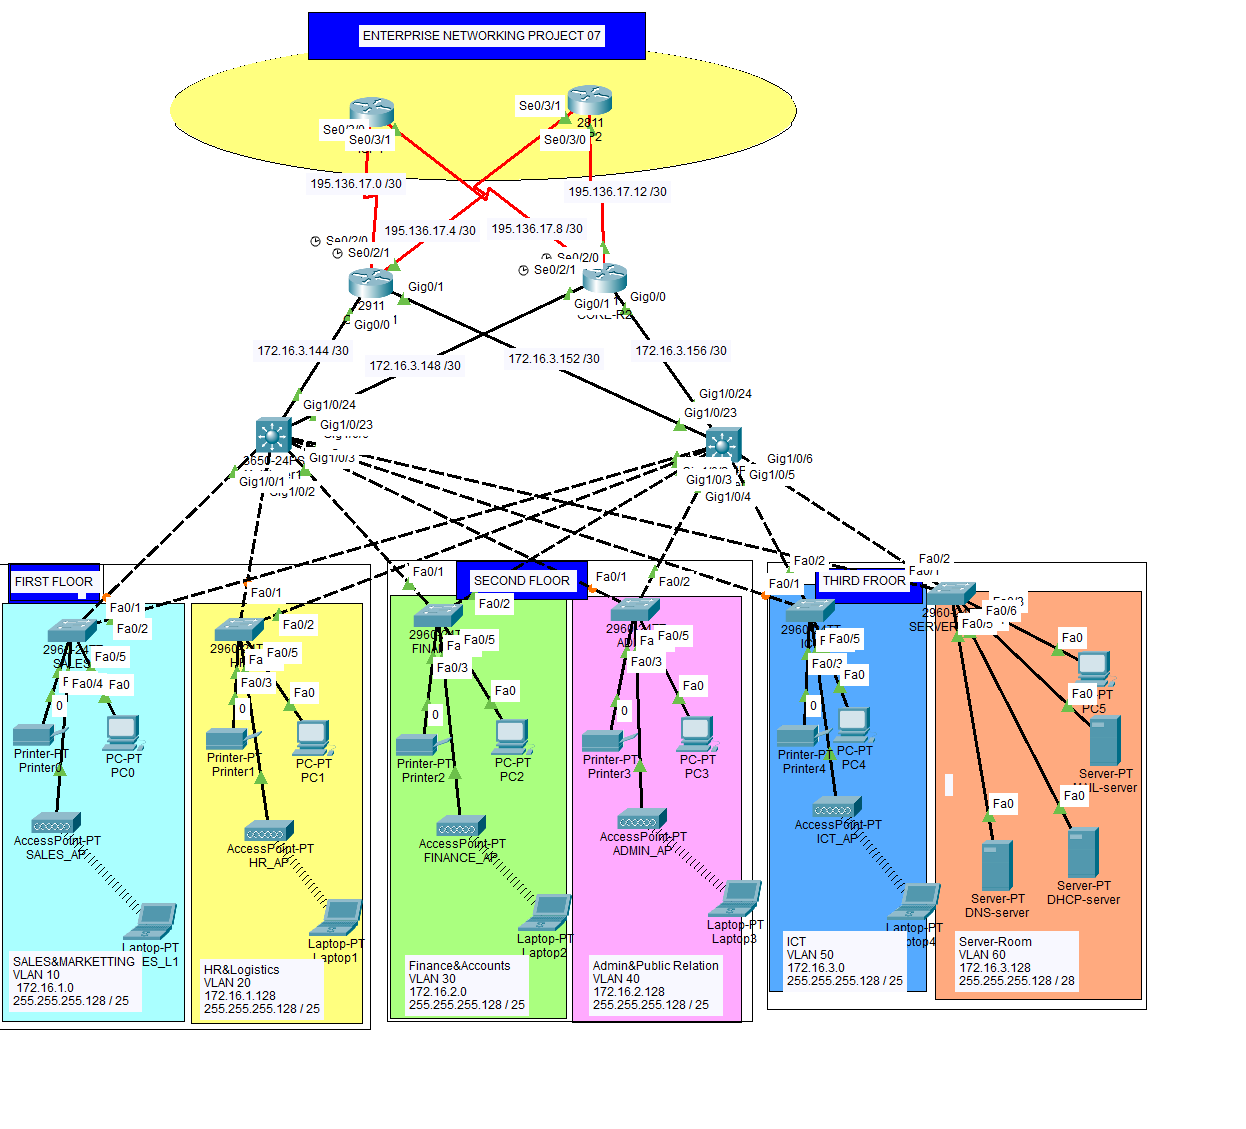
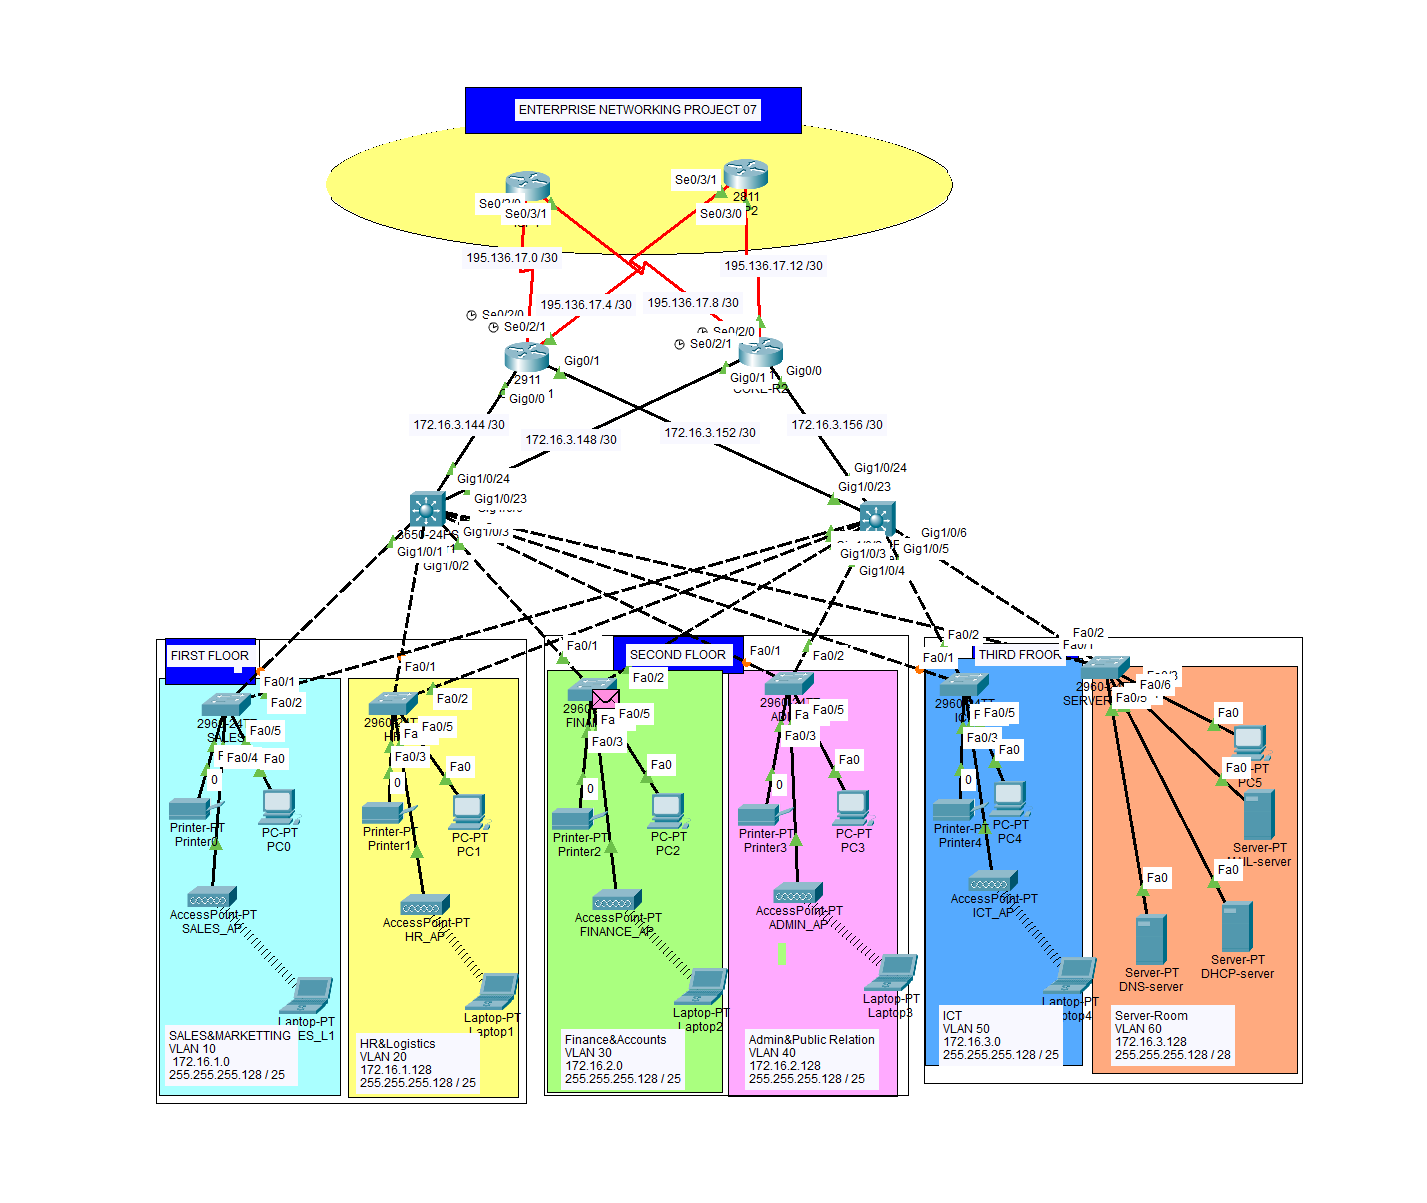
Refactor code structure for improved readability and maintainability

diff --git a/index.html b/index.html
@@ -457,7 +457,11 @@ M52.3,-17.3C61.2,10.4,57.3,42,39.1,55.7C20.9,69.4,-11.7,65.1,-32.4,49C-53.1,32.9
             <div class="featured-projects">
                 <article class="port-box reveal project-featured" data-category="security">
                     <div class="project-art project-art-wazuh">
+                        <!-- Add image: replace or remove the icon and span below.
+                             Example: <img src="images/wazuh-project.png" alt="Wazuh SIEM project"> -->
                         <i class='bx bx-radar' aria-hidden="true"></i>
+                        <img src="images\dhash board 01.png" alt="Enterprise Bank Network design"
+                            loading="lazy">
                         <span>WAZUH / SIEM LAB</span>
                     </div>
                     <div class="port-content">
@@ -476,7 +480,10 @@ M52.3,-17.3C61.2,10.4,57.3,42,39.1,55.7C20.9,69.4,-11.7,65.1,-32.4,49C-53.1,32.9
                 </article>
                 <article class="port-box reveal project-featured" data-category="networking">
                     <div class="project-art project-art-network">
+                        <!-- Add image: images/enterprise-network.png -->
                         <i class='bx bx-network-chart' aria-hidden="true"></i>
+                        <img src="images\Enterprise Networking.png" alt="Enterprise Bank Network design"
+                            loading="lazy">
                         <span>ENTERPRISE / NETWORK</span>
                     </div>
                     <div class="port-content">
@@ -497,7 +504,7 @@ M52.3,-17.3C61.2,10.4,57.3,42,39.1,55.7C20.9,69.4,-11.7,65.1,-32.4,49C-53.1,32.9
                 </article>
                 <article class="port-box reveal project-featured" data-category="networking">
                     <div class="project-art project-art-bank">
-                        <img src="images/Enterprise Bank Network.png" alt="Enterprise Bank Network design"
+                        <img src="images\bank network.png" alt="Enterprise Bank Network design"
                             loading="lazy">
                     </div>
                     <div class="port-content">
@@ -516,6 +523,7 @@ M52.3,-17.3C61.2,10.4,57.3,42,39.1,55.7C20.9,69.4,-11.7,65.1,-32.4,49C-53.1,32.9
                 </article>
                 <article class="port-box reveal project-featured" data-category="development">
                     <div class="project-art project-art-restaurant">
+                        <!-- Add image: images/restaurant-project.png -->
                         <i class='bx bx-restaurant' aria-hidden="true"></i>
                         <span>SMART / RESTAURANT</span>
                     </div>

diff --git a/styles.css b/styles.css
@@ -458,7 +458,7 @@ body.light-theme details { border-color: var(--border); }
 .project-art::after { background: rgba(168, 85, 247, .12); border: 1px solid rgba(168, 85, 247, .25); border-radius: 50%; content: ""; height: 16rem; position: absolute; width: 16rem; }
 .project-art i { font-size: 4rem; position: relative; z-index: 1; }
 .project-art span { color: var(--muted); font-family: "DM Mono", monospace; font-size: .68rem; letter-spacing: .12em; position: relative; z-index: 1; }
-.project-art-bank img { height: 100%; object-fit: cover; position: absolute; width: 100%; }
+.project-art img { height: 100%; object-fit: cover; position: absolute; width: 100%; }
 .project-kicker { color: var(--violet); font-family: "DM Mono", monospace; font-size: .68rem; letter-spacing: .1em; text-transform: uppercase; }
 .tech-tags { display: flex; flex-wrap: wrap; gap: .4rem; margin-top: 1rem; }
 .tech-tags span { background: rgba(168, 85, 247, .12); border-radius: 999px; color: #d7b8ff; font-size: .65rem; padding: .35rem .55rem; }
